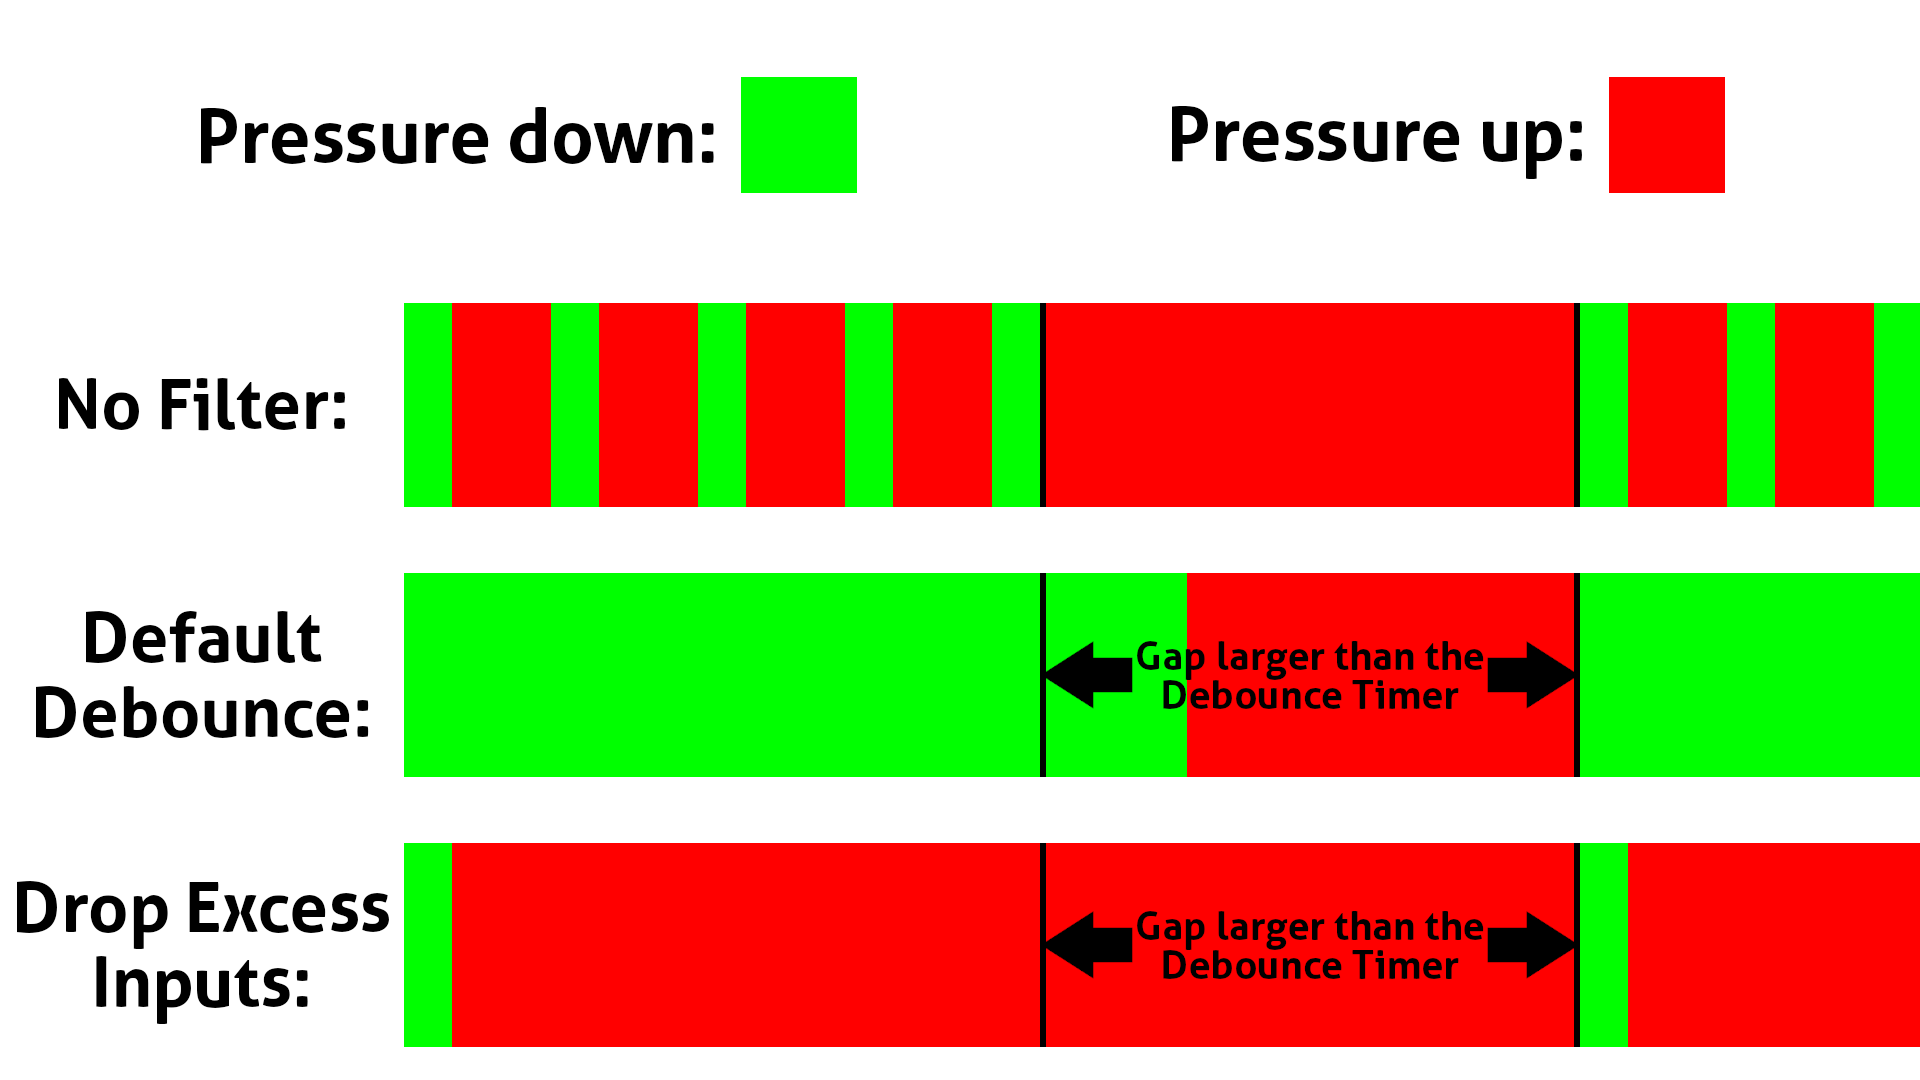
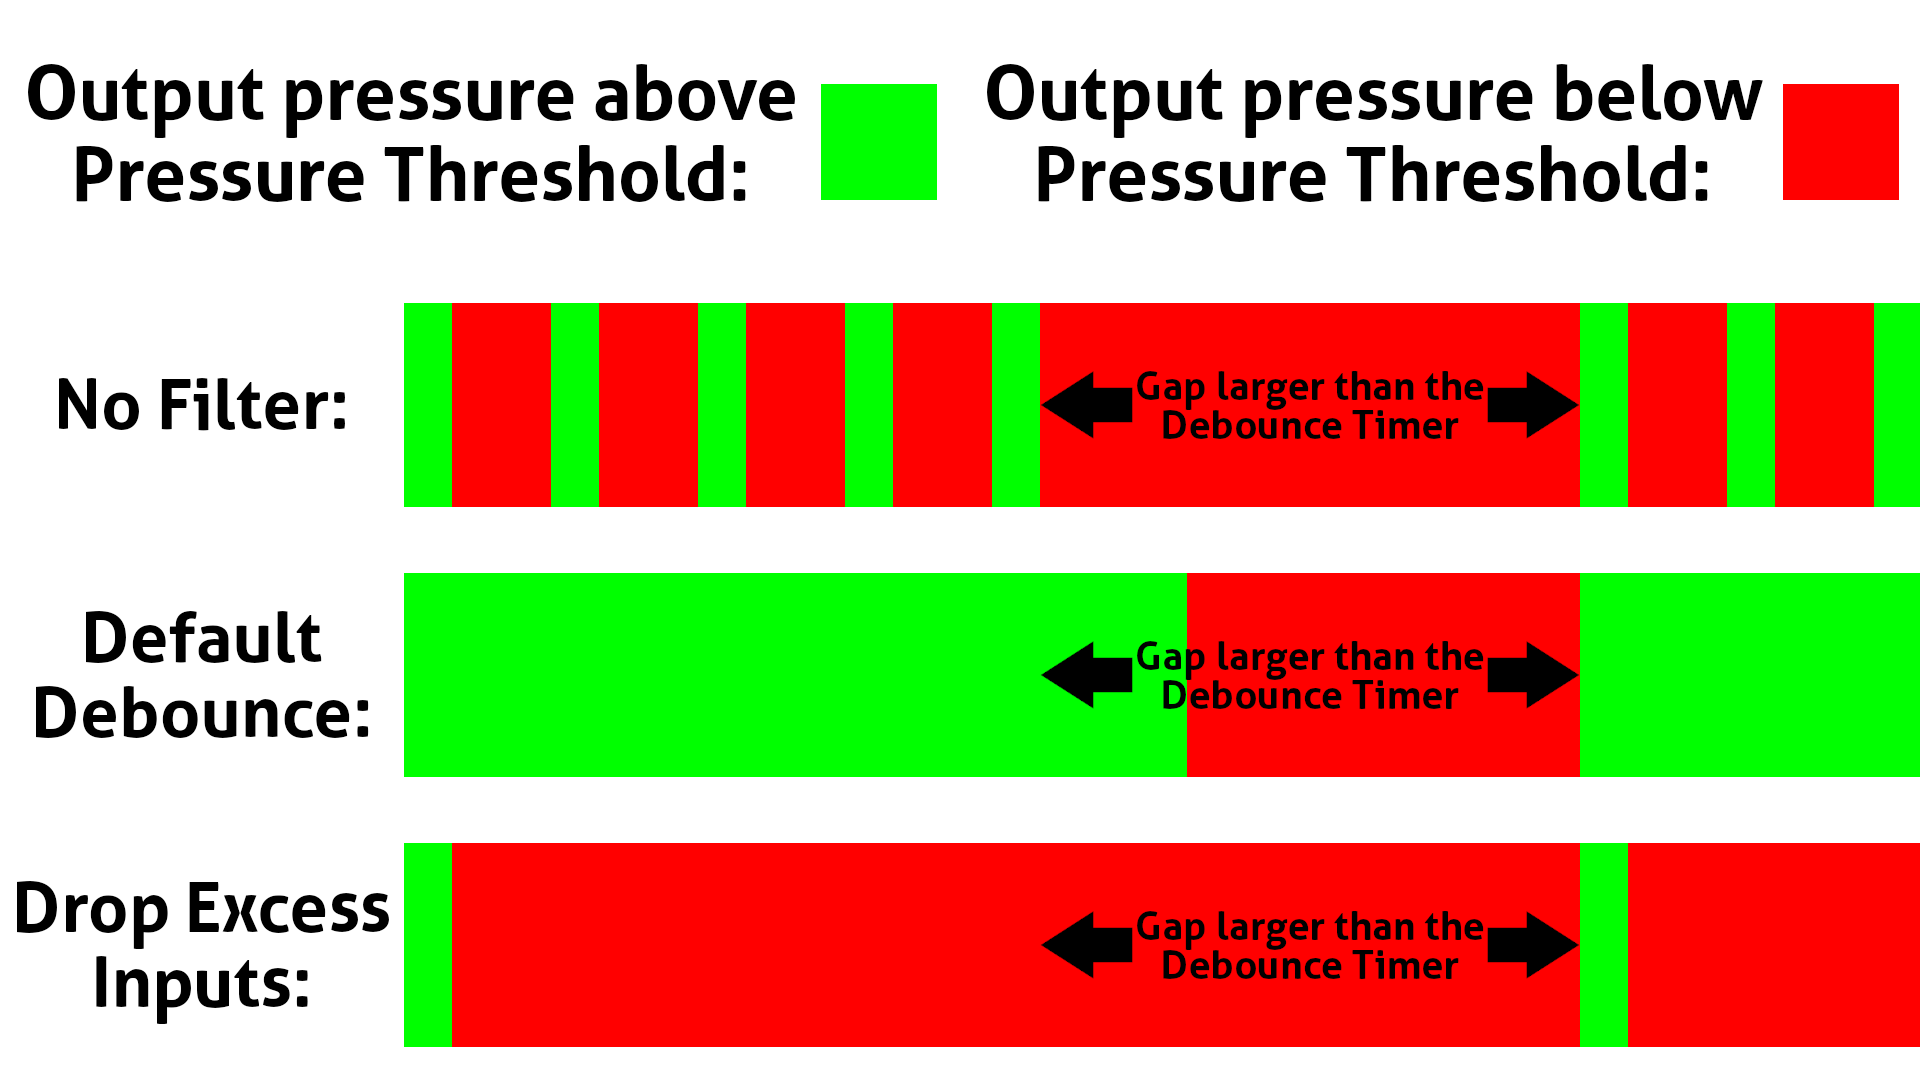
Add clearer documentation

Changed region(s): [[0.0, 0.0611, 1.0, 0.1833], [0.5312, 0.3361, 0.8438, 0.4278]]

diff --git a/README.md b/README.md
@@ -1,14 +1,22 @@
-# Tablet Debounce Plugin for [OpenTabletDriver](https://github.com/OpenTabletDriver/OpenTabletDriver) [![](https://img.shields.io/github/downloads/Kuuuube/Tablet_Debounce/total.svg)](https://github.com/Kuuuube/Tablet_Debounce/releases/latest)
+# Tablet Debounce Plugin for [OpenTabletDriver](https://github.com/OpenTabletDriver/OpenTabletDriver)
 
-Prevents unintended repetition of pen tip inputs.
+Prevents unintended repitition of pen tip inputs.
 
 ## Explanation of the Values:
 
-**Debounce Timer:** The time after an input when subsequent inputs are handled.
+**Debounce Timer:** The time in ms after input pressure goes below the **Pressure Threshold** and subsequent inputs are extended, combined, or dropped.
 
-**Pressure Threshold:** The raw pen pressure value at which inputs are handled.
+**Pressure Threshold:** The raw pen pressure value at which inputs are handled. 
 
-**Drop Excess Inputs:** Instead of combining subsequent inputs within the debounce ranges, the inputs are dropped.
+- **Default Action:** Output pressure will be held at or above the set **Pressure Threshold** after an input goes below the **Pressure Threshold** until the time set in the **Debounce Timer** has passed. 
+
+    Subsequent inputs above the **Pressure Threshold** within the time set in the **Debounce Timer** will be combined with the previous input and reset the **Debounce Timer** until the pressure is below the **Pressure Threshold**..
+
+- **Drop Excess Inputs:** Output pressure will be held below the set **Pressure Threshold** after an input goes below the **Pressure Threshold** until the time set in the **Debounce Timer** has passed. 
+
+    Subsequent inputs above the **Pressure Threshold** within the time set in the **Debounce Timer** will be dropped and will reset the **Debounce Timer** until the pressure is below the **Pressure Threshold**.
+
+**Drop Excess Inputs:** Instead of extending or combining subsequent inputs, all subsequent inputs above the **Pressure Threshold** and within the time set in the **Debounce Timer** are dropped.
 
 <br>
 
